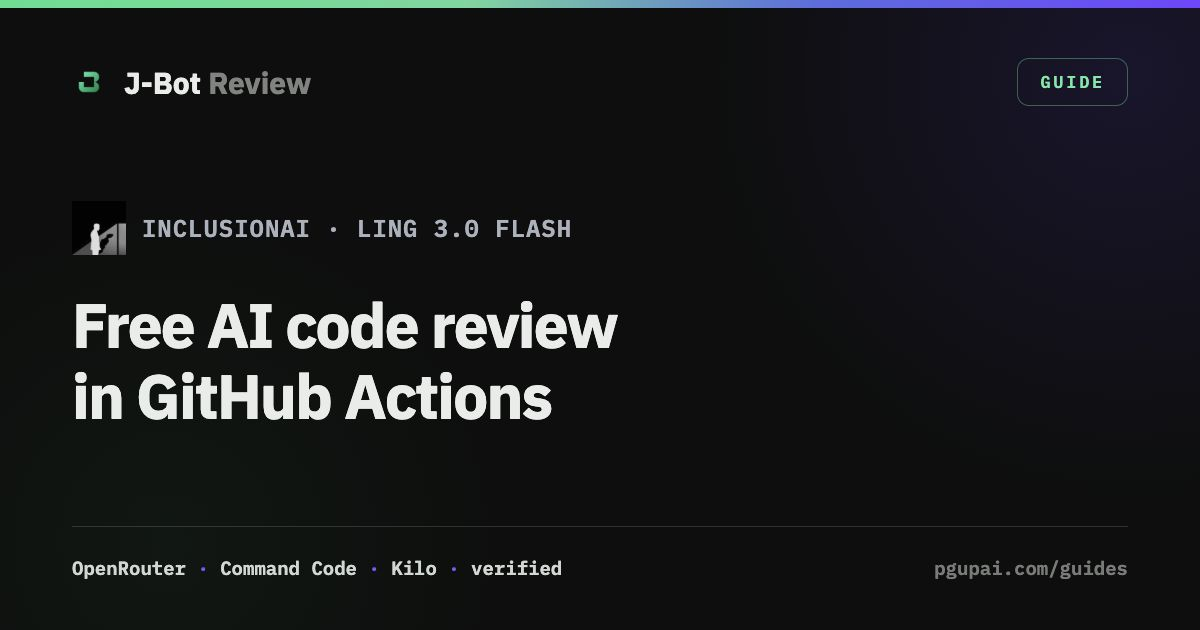
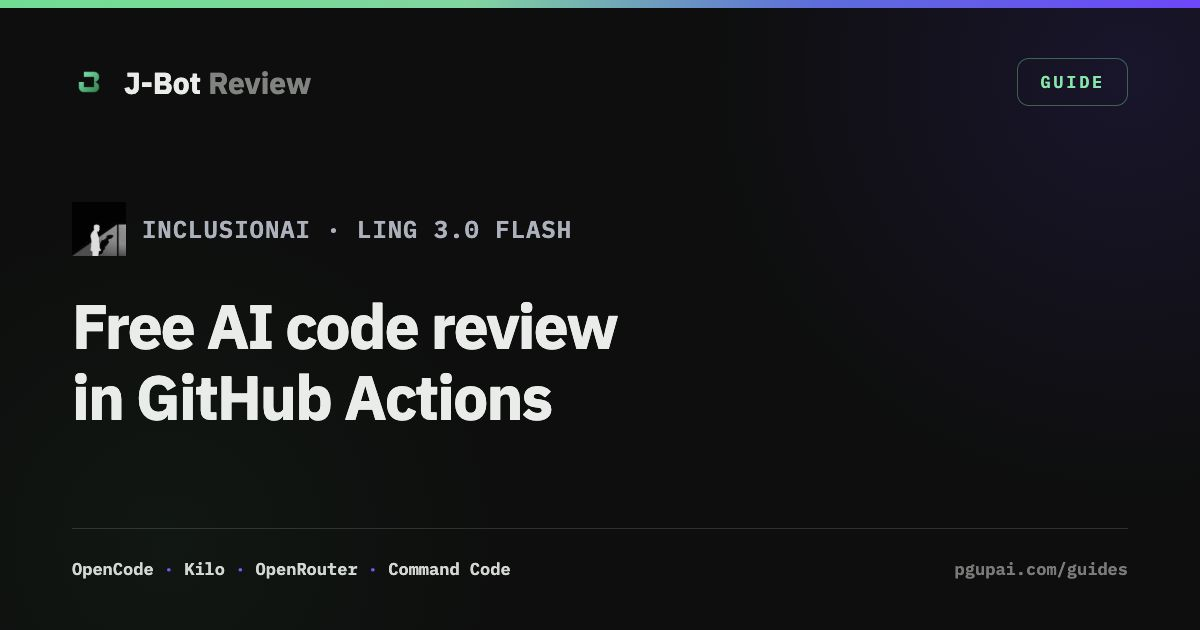
Add OpenCode to Ling 3.0 Flash free routes (#24)
* Add OpenCode Ling free route

* Clarify Ling route verification

diff --git a/guides/ling-3-0-flash-code-review-github-actions.html b/guides/ling-3-0-flash-code-review-github-actions.html
@@ -4,7 +4,7 @@
 <meta charset="utf-8" />
 <meta name="viewport" content="width=device-width, initial-scale=1" />
 <title>Ling 3.0 Flash Code Review in GitHub Actions | J-Bot Review</title>
-<meta name="description" content="Run inclusionAI Ling 3.0 Flash as a free AI code reviewer in GitHub Actions through OpenRouter, Command Code, or Kilo. Copy the verified provider, model, and secret names." />
+<meta name="description" content="Run inclusionAI Ling 3.0 Flash as a free AI code reviewer in GitHub Actions through OpenCode, Kilo, OpenRouter, or Command Code. Copy the exact provider, model, and secret names." />
 <meta name="color-scheme" content="dark" />
 <meta name="theme-color" content="#0a0b0a" />
 <link rel="icon" type="image/png" sizes="32x32" href="/assets/favicon-32.png" />
@@ -16,7 +16,7 @@
 <meta property="og:url" content="https://www.pgupai.com/guides/ling-3-0-flash-code-review-github-actions" />
 <meta property="og:site_name" content="J-Bot Review" />
 <meta property="og:title" content="Ling 3.0 Flash code review in GitHub Actions" />
-<meta property="og:description" content="Three manually verified free routes: OpenRouter, Command Code, and Kilo. Exact model and secret names included." />
+<meta property="og:description" content="Four free routes: OpenCode, Kilo, OpenRouter, and Command Code. Exact model and secret names included." />
 <meta property="og:image" content="https://www.pgupai.com/assets/og-guide-ling-20260723.png" />
 <meta property="og:image:secure_url" content="https://www.pgupai.com/assets/og-guide-ling-20260723.png" />
 <meta property="og:image:type" content="image/png" />
@@ -26,7 +26,7 @@
 <meta property="article:modified_time" content="2026-07-23" />
 <meta name="twitter:card" content="summary_large_image" />
 <meta name="twitter:title" content="Ling 3.0 Flash code review in GitHub Actions" />
-<meta name="twitter:description" content="Three manually verified free routes: OpenRouter, Command Code, and Kilo." />
+<meta name="twitter:description" content="Four free routes: OpenCode, Kilo, OpenRouter, and Command Code." />
 <meta name="twitter:image" content="https://www.pgupai.com/assets/og-guide-ling-20260723.png" />
 
 <script type="application/ld+json">
@@ -37,7 +37,7 @@
       "@type": "TechArticle",
       "@id": "https://www.pgupai.com/guides/ling-3-0-flash-code-review-github-actions#article",
       "headline": "Ling 3.0 Flash code review in GitHub Actions",
-      "description": "Run inclusionAI Ling 3.0 Flash as a free AI code reviewer in GitHub Actions through OpenRouter, Command Code, or Kilo.",
+      "description": "Run inclusionAI Ling 3.0 Flash as a free AI code reviewer in GitHub Actions through OpenCode, Kilo, OpenRouter, or Command Code.",
       "datePublished": "2026-07-23",
       "dateModified": "2026-07-23",
       "mainEntityOfPage": "https://www.pgupai.com/guides/ling-3-0-flash-code-review-github-actions",
@@ -74,22 +74,22 @@
         {
           "@type": "Question",
           "name": "Is Ling 3.0 Flash free for pull-request review?",
-          "acceptedAnswer": { "@type": "Answer", "text": "Yes. As of 2026-07-23, Ling 3.0 Flash is free through OpenRouter, Command Code, and Kilo. All three routes were manually verified with J-Bot Review. Free windows, quotas, and model availability remain provider-controlled, and J-Bot adds no charge of its own." }
+          "acceptedAnswer": { "@type": "Answer", "text": "Yes. As of 2026-07-23, Ling 3.0 Flash is free through OpenCode, Kilo, OpenRouter, and Command Code. The OpenCode route was checked against its live model catalog; the other three were manually verified with J-Bot Review. Free windows, quotas, and model availability remain provider-controlled, and J-Bot adds no charge of its own." }
         },
         {
           "@type": "Question",
           "name": "What model id does Ling 3.0 Flash use on each provider?",
-          "acceptedAnswer": { "@type": "Answer", "text": "OpenRouter uses inclusionai/ling-3.0-flash:free. Command Code uses inclusionai/ling-3.0-flash-free. Kilo uses kilo/inclusionai/ling-3.0-flash:free. These provider-specific spellings were checked against the live model catalogs and manually verified in J-Bot Review." }
+          "acceptedAnswer": { "@type": "Answer", "text": "OpenCode uses ling-3.0-flash-free. Kilo uses kilo/inclusionai/ling-3.0-flash:free. OpenRouter uses inclusionai/ling-3.0-flash:free. Command Code uses inclusionai/ling-3.0-flash-free. The OpenCode spelling was checked against its live model catalog; the Kilo, OpenRouter, and Command Code spellings were manually verified in J-Bot Review." }
         },
         {
           "@type": "Question",
-          "name": "Should I use OpenRouter, Command Code, or Kilo for Ling 3.0 Flash?",
-          "acceptedAnswer": { "@type": "Answer", "text": "Use OpenRouter for the simplest API-key setup. Use Command Code if you already authenticate that CLI with a user access key. Use Kilo if you already carry Kilo auth into CI. The model is currently free on all three, so the practical difference is where you already manage credentials." }
+          "name": "Should I use OpenCode, Kilo, OpenRouter, or Command Code for Ling 3.0 Flash?",
+          "acceptedAnswer": { "@type": "Answer", "text": "Use OpenCode if you already have an OpenCode key, Kilo if you already carry Kilo auth into CI, OpenRouter for a standard API-key setup, or Command Code if you already authenticate that CLI with a user access key. The model is currently free on all four, so the practical difference is where you already manage credentials." }
         },
         {
           "@type": "Question",
-          "name": "Have all three Ling 3.0 Flash routes been tested with J-Bot?",
-          "acceptedAnswer": { "@type": "Answer", "text": "Yes. The OpenRouter, Command Code, and Kilo provider-model pairs were each manually verified with J-Bot Review on 2026-07-23." }
+          "name": "Have all four Ling 3.0 Flash routes been tested with J-Bot?",
+          "acceptedAnswer": { "@type": "Answer", "text": "Kilo, OpenRouter, and Command Code were manually verified with J-Bot Review on 2026-07-23. OpenCode availability and its ling-3.0-flash-free model id were checked against the live OpenCode catalog; that route was not rerun end to end for this update." }
         }
       ]
     }
@@ -202,11 +202,11 @@
   </div>
   <p class="updated">Published July 23, 2026 · applies to pgup-ai/jbot-review-action v0</p>
 
-  <p class="lede"><b>inclusionAI's Ling 3.0 Flash can review pull requests for free through OpenRouter, Command Code, or Kilo.</b> All three routes have been manually verified with J-Bot Review, and each keeps the review inside your own GitHub Actions workflow.</p>
+  <p class="lede"><b>inclusionAI's Ling 3.0 Flash can review pull requests for free through OpenCode, Kilo, OpenRouter, or Command Code.</b> OpenCode is listed in the live model catalog; the other three routes were manually verified with J-Bot Review.</p>
 
   <div class="callout">
-    <span class="tag">Three routes · manually verified</span>
-    <p>OpenRouter, Command Code, and Kilo each completed the provider and model-selection path with Ling 3.0 Flash on July 23. The identifiers differ slightly, so copy the one that matches your backend.</p>
+    <span class="tag">Four free routes · exact ids</span>
+    <p>OpenCode now lists Ling 3.0 Flash alongside the verified Kilo, OpenRouter, and Command Code routes. The identifiers differ slightly, so copy the one that matches your backend.</p>
   </div>
 
   <h2 id="setup">OpenRouter setup in three steps</h2>
@@ -247,12 +247,13 @@
           <span class="k">github-token</span>: ${{ secrets.GITHUB_TOKEN }}</pre>
   </div>
 
-  <h2 id="routes">Three free routes, three exact model ids</h2>
-  <p>Pick the route where you already manage credentials. All three were manually verified, but free windows, quotas, and context limits still belong to each provider.</p>
+  <h2 id="routes">Four free routes, four exact model ids</h2>
+  <p>Pick the route where you already manage credentials. Free windows, quotas, and context limits still belong to each provider.</p>
   <div class="routes">
+    <div class="route"><div><b>OpenCode</b><span class="verified">Catalog verified</span></div><p><code>provider: opencode</code><br><code>model: ling-3.0-flash-free</code><br><code>opencode-api-key</code></p></div>
+    <div class="route"><div><b>Kilo</b><span class="verified">Verified</span></div><p><code>provider: kilo</code><br><code>model: kilo/inclusionai/ling-3.0-flash:free</code><br><code>kilo-auth</code></p></div>
     <div class="route"><div><b>OpenRouter</b><span class="verified">Verified</span></div><p><code>provider: openrouter</code><br><code>model: inclusionai/ling-3.0-flash:free</code><br><code>openrouter-api-key</code></p></div>
     <div class="route"><div><b>Command Code</b><span class="verified">Verified</span></div><p><code>provider: commandcode</code><br><code>model: inclusionai/ling-3.0-flash-free</code><br><code>commandcode-access-key</code></p></div>
-    <div class="route"><div><b>Kilo</b><span class="verified">Verified</span></div><p><code>provider: kilo</code><br><code>model: kilo/inclusionai/ling-3.0-flash:free</code><br><code>kilo-auth</code></p></div>
   </div>
 
   <h2 id="model">Why Ling 3.0 Flash fits review work</h2>
@@ -266,7 +267,7 @@
   <h2 id="privacy">Where the diff goes</h2>
   <ul>
     <li><b>Your runner stays in control.</b> The review session runs headless on your GitHub Actions runner with read-only repository access.</li>
-    <li><b>The route determines the destination.</b> OpenRouter sends the diff through your OpenRouter account; Command Code and Kilo use the corresponding authenticated CLI backend. J-Bot does not proxy the diff through a hosted reviewer service.</li>
+    <li><b>The route determines the destination.</b> Each provider uses its corresponding account or authenticated CLI backend. J-Bot does not proxy the diff through a hosted reviewer service.</li>
     <li><b>Fork PRs cannot read the key.</b> GitHub does not pass repository secrets to <code>pull_request</code> workflows from forks.</li>
     <li><b>Blocking findings are verified.</b> A second model session challenges each blocking finding before J-Bot posts it; nits are demoted.</li>
   </ul>
@@ -274,19 +275,19 @@
   <h2 id="faq">FAQ</h2>
   <details class="faq-item" open>
     <summary>Is Ling 3.0 Flash free for pull-request review?<span class="faq-mark" aria-hidden="true">+</span></summary>
-    <div class="faq-a"><p>Yes. As of 2026-07-23, Ling 3.0 Flash is free through OpenRouter, Command Code, and Kilo. All three routes were manually verified with J-Bot Review. Free windows, quotas, and model availability remain provider-controlled, and J-Bot adds no charge of its own.</p></div>
+    <div class="faq-a"><p>Yes. As of 2026-07-23, Ling 3.0 Flash is free through OpenCode, Kilo, OpenRouter, and Command Code. The OpenCode route was checked against its live model catalog; the other three were manually verified with J-Bot Review. Free windows, quotas, and model availability remain provider-controlled, and J-Bot adds no charge of its own.</p></div>
   </details>
   <details class="faq-item">
     <summary>What model id does Ling 3.0 Flash use on each provider?<span class="faq-mark" aria-hidden="true">+</span></summary>
-    <div class="faq-a"><p>OpenRouter uses <code>inclusionai/ling-3.0-flash:free</code>. Command Code uses <code>inclusionai/ling-3.0-flash-free</code>. Kilo uses <code>kilo/inclusionai/ling-3.0-flash:free</code>. These provider-specific spellings were checked against the live model catalogs and manually verified in J-Bot Review.</p></div>
+    <div class="faq-a"><p>OpenCode uses <code>ling-3.0-flash-free</code>. Kilo uses <code>kilo/inclusionai/ling-3.0-flash:free</code>. OpenRouter uses <code>inclusionai/ling-3.0-flash:free</code>. Command Code uses <code>inclusionai/ling-3.0-flash-free</code>. The OpenCode spelling was checked against its live model catalog; the Kilo, OpenRouter, and Command Code spellings were manually verified in J-Bot Review.</p></div>
   </details>
   <details class="faq-item">
-    <summary>Should I use OpenRouter, Command Code, or Kilo for Ling 3.0 Flash?<span class="faq-mark" aria-hidden="true">+</span></summary>
-    <div class="faq-a"><p>Use OpenRouter for the simplest API-key setup. Use Command Code if you already authenticate that CLI with a user access key. Use Kilo if you already carry Kilo auth into CI. The model is currently free on all three, so the practical difference is where you already manage credentials.</p></div>
+    <summary>Should I use OpenCode, Kilo, OpenRouter, or Command Code for Ling 3.0 Flash?<span class="faq-mark" aria-hidden="true">+</span></summary>
+    <div class="faq-a"><p>Use OpenCode if you already have an OpenCode key, Kilo if you already carry Kilo auth into CI, OpenRouter for a standard API-key setup, or Command Code if you already authenticate that CLI with a user access key. The model is currently free on all four, so the practical difference is where you already manage credentials.</p></div>
   </details>
   <details class="faq-item">
-    <summary>Have all three Ling 3.0 Flash routes been tested with J-Bot?<span class="faq-mark" aria-hidden="true">+</span></summary>
-    <div class="faq-a"><p>Yes. The OpenRouter, Command Code, and Kilo provider-model pairs were each manually verified with J-Bot Review on 2026-07-23.</p></div>
+    <summary>Have all four Ling 3.0 Flash routes been tested with J-Bot?<span class="faq-mark" aria-hidden="true">+</span></summary>
+    <div class="faq-a"><p>Kilo, OpenRouter, and Command Code were manually verified with J-Bot Review on 2026-07-23. OpenCode availability and its <code>ling-3.0-flash-free</code> model id were checked against the live OpenCode catalog; that route was not rerun end to end for this update.</p></div>
   </details>
 
   <h2>Related</h2>

diff --git a/guides/index.html b/guides/index.html
@@ -326,7 +326,7 @@
       <div class="g-body">
         <span class="k2">inclusionAI · free</span>
         <h2>Ling 3.0 Flash code review in GitHub Actions</h2>
-        <p>Three manually verified free routes—OpenRouter, Command Code, and Kilo—with the exact model and secret names.</p>
+        <p>Four free routes—OpenCode, Kilo, OpenRouter, and Command Code—with the exact model and secret names.</p>
         <span class="date">Published Jul 23, 2026</span>
       </div>
     </a>

diff --git a/index.html b/index.html
@@ -996,7 +996,7 @@
       <h3><span class="dot" aria-hidden="true"></span>Or start at $0 — free models</h3>
       <div class="chips">
         <span class="chip"><svg class="chip-ic" viewBox="0 0 128 128" aria-hidden="true"><path d="M35.959 121.526C24.0818 115.732 14.4341 106.579 8.05066 95.0574C1.81473 83.7992 -0.879432 71.1 0.251828 58.3309C0.507952 55.4694 3.02886 53.3568 5.89156 53.6095C8.7489 53.864 10.8649 56.3873 10.6123 59.2505C9.66451 69.946 11.9251 80.5867 17.1503 90.021C21.6488 98.1439 28.092 104.861 35.9564 109.677L60.417 59.5137C50.8426 56.3249 42.8678 57.713 42.1501 57.8524C42.0448 57.8767 41.943 57.8938 41.8395 57.9145C39.4554 58.3137 37.1494 57.0107 36.2211 54.8443C34.94 52.4524 31.0936 46.6059 26.4383 44.3349C21.7831 42.0638 14.6085 42.7964 12.2989 43.2986C10.3515 43.7238 8.32488 42.9977 7.09485 41.4319C5.86482 39.866 5.62905 37.7304 6.50215 35.9399C21.9599 4.22118 60.3479 -8.99859 92.0614 6.47266C123.775 21.9439 136.981 60.3025 121.55 92.012C121.534 92.0443 121.518 92.0767 121.501 92.1126C106.016 123.796 67.6581 136.99 35.959 121.526ZM69.7599 64.0716L45.3011 114.231C69.9874 123.453 98.0784 113.207 110.924 89.9213C109.118 87.1266 105.95 83.1199 102.283 81.3311C97.5455 79.0197 90.6037 79.7768 88.2189 80.2779C87.8263 80.3712 87.435 80.4162 87.0416 80.4201C86.3368 80.4235 85.6217 80.2838 84.9355 79.9846C84.2241 79.6732 83.5808 79.2036 83.0615 78.5986C82.7647 78.2491 82.5194 77.8669 82.3222 77.4591C82.1689 77.1529 78.3756 69.7924 69.7563 64.0698L69.7599 64.0716ZM30.9948 34.9814C34.9779 36.9245 38.2192 40.0146 40.6431 42.9284C48.1391 31.4618 58.3119 22.8009 66.1701 17.2168C69.0902 15.1432 72.1137 13.2045 75.0253 11.5316C54.5716 7.23693 33.135 15.3431 20.7056 32.4098C23.9955 32.635 27.6265 33.3382 30.9948 34.9814ZM98.566 23.0203C99.0407 26.3451 99.3765 29.9182 99.5389 33.5001C99.9773 43.105 99.422 56.4087 95.0351 69.3476C98.694 69.4457 102.949 70.0927 106.842 71.9919C110.318 73.6878 113.232 76.2533 115.526 78.8142C121.381 58.4737 114.576 36.5278 98.5643 23.0239L98.566 23.0203ZM69.7958 52.1345C76.989 55.6436 82.1885 60.3121 85.7127 64.3368C91.4457 45.7079 88.9465 24.8611 86.8596 17.1403C79.4921 20.2488 61.5261 31.1118 50.3829 47.1013C55.7288 47.3994 62.6061 48.627 69.7958 52.1345Z"></path></svg>Laguna S 2.1<span class="fc-prov"><svg class="ptag" viewBox="0 0 128 128"><title>Poolside</title><use href="#p-poolside"/></svg><svg class="ptag" viewBox="2 0 20 24"><title>OpenCode</title><use href="#p-opencode"/></svg><svg class="ptag" viewBox="0 1.84 24 20.31"><title>OpenRouter</title><use href="#p-openrouter"/></svg></span></span>
-        <span class="chip"><img class="chip-ic chip-ic--iai" src="assets/inclusionai-logo.png" alt="" width="14" height="14" />Ling 3.0 Flash<span class="fc-prov"><svg class="ptag" viewBox="0 1.84 24 20.31"><title>OpenRouter</title><use href="#p-openrouter"/></svg><svg class="ptag" viewBox="0 0 100 100"><title>Command Code</title><rect x="4" y="4" width="92" height="92" rx="14" fill="none" stroke="currentColor" stroke-width="8"/><path d="M50 34v32M34 50h32" fill="none" stroke="currentColor" stroke-width="7"/><circle cx="26" cy="26" r="9" fill="none" stroke="currentColor" stroke-width="7"/><circle cx="74" cy="26" r="9" fill="none" stroke="currentColor" stroke-width="7"/><circle cx="26" cy="74" r="9" fill="none" stroke="currentColor" stroke-width="7"/><circle cx="74" cy="74" r="9" fill="none" stroke="currentColor" stroke-width="7"/></svg><svg class="ptag" viewBox="0 0 100 100"><title>Kilo</title><use href="#p-kilo"/></svg></span></span>
+        <span class="chip"><img class="chip-ic chip-ic--iai" src="assets/inclusionai-logo.png" alt="" width="14" height="14" />Ling 3.0 Flash<span class="fc-prov"><svg class="ptag" viewBox="2 0 20 24"><title>OpenCode</title><use href="#p-opencode"/></svg><svg class="ptag" viewBox="0 0 100 100"><title>Kilo</title><use href="#p-kilo"/></svg><svg class="ptag" viewBox="0 1.84 24 20.31"><title>OpenRouter</title><use href="#p-openrouter"/></svg><svg class="ptag" viewBox="0 0 100 100"><title>Command Code</title><rect x="4" y="4" width="92" height="92" rx="14" fill="none" stroke="currentColor" stroke-width="8"/><path d="M50 34v32M34 50h32" fill="none" stroke="currentColor" stroke-width="7"/><circle cx="26" cy="26" r="9" fill="none" stroke="currentColor" stroke-width="7"/><circle cx="74" cy="26" r="9" fill="none" stroke="currentColor" stroke-width="7"/><circle cx="26" cy="74" r="9" fill="none" stroke="currentColor" stroke-width="7"/><circle cx="74" cy="74" r="9" fill="none" stroke="currentColor" stroke-width="7"/></svg></span></span>
         <span class="chip"><svg class="chip-ic" viewBox="10.35 12.78 19.25 14.4" aria-hidden="true"><path d="M21.0617 14.3854C22.386 14.6964 23.0281 15.1378 23.4494 16.0407C23.8808 16.9637 23.951 17.7262 23.951 21.8896V25.8022L22.5264 25.7721L21.0918 25.742L21.0417 21.9297C20.9915 17.7663 20.9714 17.6359 20.3895 17.1844C19.8679 16.7731 19.4264 16.7229 16.5772 16.7129H13.8685L13.8183 21.2275L13.7682 25.742H10.9591L10.929 20.0336C10.909 15.5291 10.939 14.2951 11.0293 14.2349C11.0996 14.1847 13.2365 14.1647 15.7747 14.1847C19.4967 14.2249 20.52 14.265 21.0617 14.3854ZM28.9472 14.3252C29.0174 14.4657 29.0475 25.3708 28.9773 25.722C28.9773 25.7621 28.3252 25.7822 27.5426 25.7721L26.108 25.742L26.0779 20.0838C26.0679 15.9906 26.0879 14.3854 26.1682 14.2951C26.2585 14.1847 26.6096 14.1546 27.5727 14.1546C28.6964 14.1546 28.8669 14.1747 28.9472 14.3252ZM18.9349 22.2307V25.8022L17.4601 25.7721L15.9753 25.742L15.9452 22.331C15.9352 20.455 15.9452 18.8598 15.9753 18.7996C16.0054 18.6993 16.3967 18.6692 17.4802 18.6692H18.9349V22.2307Z"></path></svg>MiMo v2.5<span class="fc-prov"><svg class="ptag" viewBox="2 0 20 24"><title>OpenCode</title><use href="#p-opencode"/></svg></span></span>
         <span class="chip"><svg class="chip-ic" viewBox="0 3.17 24 17.66" aria-hidden="true"><path d="M23.748 4.651c-.254-.124-.364.113-.512.233-.051.04-.094.09-.137.137-.372.397-.806.657-1.373.626-.829-.046-1.537.214-2.163.848-.133-.782-.575-1.248-1.247-1.548-.352-.155-.708-.311-.955-.65-.172-.24-.219-.509-.305-.774-.055-.16-.11-.323-.293-.35-.2-.031-.278.136-.356.276-.313.572-.434 1.202-.422 1.84.027 1.436.633 2.58 1.838 3.393.137.094.172.187.129.323-.082.28-.18.553-.266.833-.055.179-.137.218-.328.14a5.5 5.5 0 0 1-1.737-1.179c-.857-.828-1.631-1.743-2.597-2.46a12 12 0 0 0-.689-.47c-.985-.957.13-1.743.387-1.836.27-.098.094-.433-.778-.428-.872.003-1.67.295-2.687.685a3 3 0 0 1-.465.136 9.6 9.6 0 0 0-2.883-.101c-1.885.21-3.39 1.1-4.497 2.622C.082 8.776-.231 10.854.152 13.02c.403 2.284 1.568 4.175 3.36 5.653 1.857 1.533 3.997 2.284 6.438 2.14 1.482-.085 3.132-.284 4.994-1.86.47.234.962.328 1.78.398.629.058 1.235-.031 1.705-.129.735-.155.684-.836.418-.961-2.155-1.004-1.682-.595-2.112-.926 1.095-1.295 2.768-3.598 3.284-6.733.05-.346.115-.834.108-1.114-.004-.171.035-.238.23-.257a4.2 4.2 0 0 0 1.545-.475c1.397-.763 1.96-2.016 2.093-3.517.02-.23-.004-.467-.247-.588M11.58 18.168c-2.088-1.642-3.101-2.183-3.52-2.16-.39.024-.32.472-.234.763.09.288.207.487.371.74.114.167.192.416-.113.603-.673.416-1.842-.14-1.897-.168-1.361-.801-2.5-1.86-3.301-3.306-.775-1.393-1.225-2.888-1.299-4.482-.02-.385.094-.522.477-.592a4.7 4.7 0 0 1 1.53-.038c2.131.311 3.946 1.264 5.467 2.774.868.86 1.525 1.887 2.202 2.89.72 1.066 1.494 2.082 2.48 2.915.348.291.626.513.892.677-.802.09-2.14.109-3.055-.615zm1.001-6.44a.306.306 0 0 1 .415-.287.3.3 0 0 1 .113.074.3.3 0 0 1 .086.214c0 .17-.136.307-.308.307a.303.303 0 0 1-.306-.307m3.11 1.596c-.2.081-.4.151-.591.16a1.25 1.25 0 0 1-.798-.254c-.274-.23-.47-.358-.551-.758a1.7 1.7 0 0 1 .015-.588c.07-.327-.007-.537-.238-.727-.188-.156-.426-.199-.689-.199a.6.6 0 0 1-.254-.078.253.253 0 0 1-.114-.358 1 1 0 0 1 .192-.21c.356-.202.767-.136 1.146.016.352.144.618.408 1.001.782.392.451.462.576.685.915.176.264.336.536.446.848.066.194-.02.353-.25.45"></path></svg>DeepSeek V4 Flash<span class="fc-prov"><svg class="ptag" viewBox="2 0 20 24"><title>OpenCode</title><use href="#p-opencode"/></svg></span></span>
         <span class="chip"><svg class="chip-ic chip-ic--nv" viewBox="0 4.06 24 15.87" aria-hidden="true"><path d="M8.948 8.798v-1.43a6.7 6.7 0 0 1 .424-.018c3.922-.124 6.493 3.374 6.493 3.374s-2.774 3.851-5.75 3.851c-.398 0-.787-.062-1.158-.185v-4.346c1.528.185 1.837.857 2.747 2.385l2.04-1.714s-1.492-1.952-4-1.952a6.016 6.016 0 0 0-.796.035m0-4.735v2.138l.424-.027c5.45-.185 9.01 4.47 9.01 4.47s-4.08 4.964-8.33 4.964c-.37 0-.733-.035-1.095-.097v1.325c.3.035.61.062.91.062 3.957 0 6.82-2.023 9.593-4.408.459.371 2.34 1.263 2.73 1.652-2.633 2.208-8.772 3.984-12.253 3.984-.335 0-.653-.018-.971-.053v1.864H24V4.063zm0 10.326v1.131c-3.657-.654-4.673-4.46-4.673-4.46s1.758-1.944 4.673-2.262v1.237H8.94c-1.528-.186-2.73 1.245-2.73 1.245s.68 2.412 2.739 3.11M2.456 10.9s2.164-3.197 6.5-3.533V6.201C4.153 6.59 0 10.653 0 10.653s2.35 6.802 8.948 7.42v-1.237c-4.84-.6-6.492-5.936-6.492-5.936z"></path></svg>Nemotron 3 Ultra<span class="fc-prov"><svg class="ptag" viewBox="2 0 20 24"><title>OpenCode</title><use href="#p-opencode"/></svg><svg class="ptag" viewBox="0 0 100 100"><title>Kilo</title><use href="#p-kilo"/></svg><svg class="ptag" viewBox="0 1.84 24 20.31"><title>OpenRouter</title><use href="#p-openrouter"/></svg></span></span>